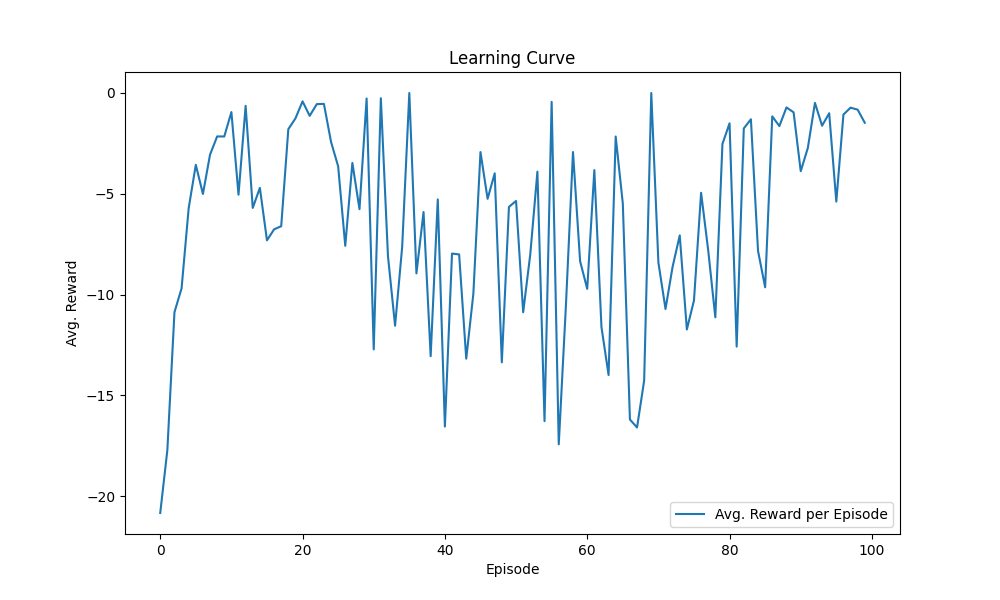
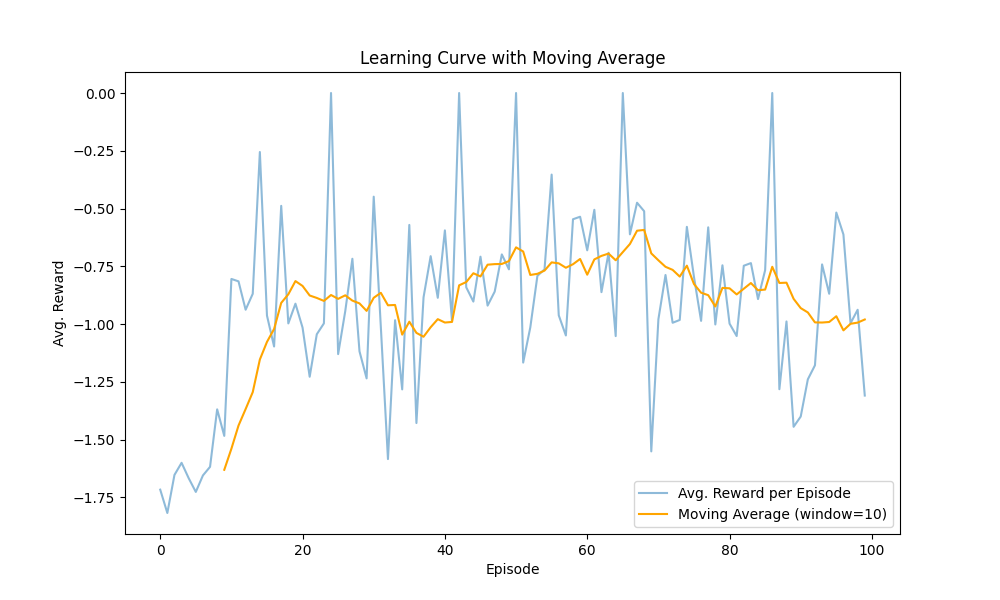
Updates from Overleaf

diff --git a/report/report.tex b/report/report.tex
@@ -8,184 +8,146 @@
 \usepackage{subcaption}
 \geometry{a4paper, margin=1in}
 
-\title{Kinodynamic RRT with PID Control for Obstacle Avoidance in a MuJoCo Environment}
-\author{Mark Doughten, Vijayendra Sai Chennareddy, Shubham Patil}
+\title{Actor-Critic Reinforcement Learning in MuJoCo}
+\author{
+    Mark Doughten [MD1875] \\
+    Vijayendra Sai Chennareddy [VC545] \\
+    Shubham Patil [SP2484]
+}
 \date{\today}
 \begin{document}
 \maketitle
 
 \section{Introduction}
-In robotics, autonomous path planning and control are crucial aspects of robot navigation, particularly in environments with obstacles. The objective of this project is to implement a hybrid approach that combines kinodynamic rapidly-exploring random Tree (RRT) for path planning and proportional-integral-derivative (PID) controllers for executing the motion along the planned path. This work is demonstrated using a ball in a MuJoCo simulation environment, where the ball navigates through an environment containing walls and boundaries. The goal is to move the ball from a starting position to a goal position while avoiding obstacles using the kinodynamic RRT algorithm and accurately controlling the movement with PID.
+This report outlines the implementation of an Actor-Critic reinforcement learning (RL) framework a MuJoCo simulation environment. The objective is training a robot on the environment and understanding how it can reach the goal. This paper describes how this is achieved using neural networks for policy learning and value estimation with a reward function designed to encourage goal seeking. The transition function outlines the expected behavior. The transition function is defined as follows:
 
-\subsection{Objectives}
-The main challenge is efficiently generating a collision-free path from a start point to a goal point in a cluttered environment and ensuring the ball follows this path with minimal deviation. We undertook the following steps to achieve this objective:
-\begin{itemize}
-    \item Configuring MuJoCo and exploring various models, including Newton’s cradle with no gravity.
-    \item Developing basic pathfinding in a 3D environment using Dijkstra’s algorithm for initial path selection and fixed velocity controls.
-    \item Enhancing pathfinding with kinodynamic RRT, incorporating a safety margin around obstacles.
-    \item Replacing basic controls with a PID controller to follow the planned path.
-    \item Simulating and visualizing the robot’s movement within the MuJoCo physics engine.
-\end{itemize}
+\begin{align*}
+\dot{x}_{t+1} &= \dot{x}_t + (f_{x,t} - \rho_{x,t}) \Delta t, \\
+\dot{y}_{t+1} &= \dot{y}_t + (f_{y,t} - \rho_{y,t}) \Delta t, \\
+x_{t+1} &= x_t + \dot{x}_t \Delta t, \\
+y_{t+1} &= y_t + \dot{y}_t \Delta t.
+\end{align*}
+
+where \( \rho_{x,t} \) and \( \rho_{y,t} \) are small independent noises, sampled from \( \mathcal{N}(0, 0.1) \) at each time step \( t \), and \( \Delta t \) is set to 0.1 seconds. We assume here that the robot has a mass of 1~kg. You can interpret the force noises as air resistance or random friction (although air resistance should scale up as a function of velocity).
 
 \section{Environment}
-The environment consists of a 2D plane with predefined walls and boundaries. The simulation is conducted using the MuJoCo physics engine, which allows for the creation and control of dynamic models. For this project, a ball is moved through the environment containing a set of obstacles to reach the goal. The model used is defined in the \texttt{ball\_square.xml} file, and the walls are represented as both external boundaries and internal obstacles.
+The environment is a 3D course simulated in MuJoCo, featuring obstacles and boundaries. The robot is subjected to forces in the \(x\)- and \(y\)-directions. The actor applies a force on the robot based on the current policy. The reward function incentives reaching the goal and penalizes wasting time. The initial state is obtained by sampling the
+position of the robot uniformly in the workspace of the robot, and setting
+its initial velocity to 0. An example of how the points were selected during a batch training session, showing the initial starting positions are random. 
 
-\subsection{Map}
+\begin{figure}[H]
+    \centering
+    \includegraphics[width=0.8\textwidth]{report/images/environment.png}
+    \caption{Spawn locations during the training process.}
+    \label{fig:trajectory}
+\end{figure}
+
+The goal position is fixed on (0.8, 0.0) and the epsilon is 0.1. Overall, this was a challenging configuration since the robot needs to learn how to travel above or below the obstacle in the middle. It makes a simple reward function like distance to the goal not beneficial since the robot will find an optimal point on the side closest. 
+
+\section{Actor-Critic Model}
+
+The framework for the Actor-Critic model is based on Hado van Hasselt's lecture. 
+
+\begin{figure}[H]
+    \centering
+    \includegraphics[width=0.8\textwidth]{report/images/slide40.PNG}
+    \caption{Pseudocode}
+    \label{fig:slide40}
+\end{figure}
+
+The Actor-Critic architecture comprises two neural networks:
 \begin{itemize}
-    \item \textbf{Dimensions:} The 2D environment spans from \(x = -0.5\) to \(x = 1.5\) and \(y = -0.4\) to \(y = 0.4\).
-    \item \textbf{Obstacles:} A rectangular obstacle is placed in the middle of the environment between coordinates (0.5, -0.15) and (0.6, 0.15), acting as a wall.
-    \item \textbf{Goal Area:} The target area for the robot is set between coordinates (0.9, -0.3) and (1.1, 0.3).
-    \item \textbf{Boundaries:} The outer walls of the environment prevent the robot from moving outside the area.
+    \item \textbf{Actor Network:} Outputs an action in the form of a mean (\(\mu\)) and standard deviation (\(\sigma\)) for each step in the episode.
+    \item \textbf{Critic Network:} Estimates the value function and provides feedback to improve the actor's policy.
 \end{itemize}
 
-This setup ensures the presence of both static and dynamic constraints, making path planning non-trivial and control challenging.
-
-\section{Path Planning}
-
-\subsection{Algorithm Overview}
-RRT\cite{planning_dynamics} are widely used for motion planning in high-dimensional spaces. In this project, we implement a kinodynamic variant of RRT. Unlike standard RRT, the kinodynamic RRT accounts for the robot’s dynamics while generating the tree, ensuring that the planned path can be followed realistically by the robot. This approach helps avoid sharp or unrealistic turns that the robot may not be able to follow.
-
-The algorithm grows a tree from the start position by:
-\begin{enumerate}
-    \item Sampling a random point in the environment.
-    \item Identifying the nearest node in the tree.
-    \item Applying a control input to move the robot towards the sampled point, simulating its dynamics.
-    \item Checking the resulting position for collisions.
-    \item Adding the new position to the tree if no collision occurs.
-\end{enumerate}
-
-This process repeats until the robot reaches the goal area or a maximum number of iterations is reached. The function \texttt{kinodynamic\_rrt} implements this process, while \texttt{simulate} handles the forward simulation of the robot’s dynamics.
-    
-\subsection{Purpose of \texttt{simulate()} in \texttt{kinodynamic\_rrt}}
-In traditional RRT, paths are generated based solely on geometric feasibility. However, for real systems with dynamic constraints, \texttt{simulate()} serves several critical functions:
-\begin{itemize}
-    \item \textbf{Ensures Dynamic Feasibility:} Calculates movement towards each sampled point, adjusting with PID control.
-    \item \textbf{Incremental Adjustment:} Makes small, corrective adjustments to follow a feasible path.
-    \item \textbf{Collision-Free Verification:} Confirms both geometric and dynamic feasibility.
-    \item \textbf{Realistic Path Execution:} Validates that each RRT segment can be executed under real-world constraints.
-\end{itemize}
-    
-\subsection{Collision Avoidance}
-Collision detection is handled by the function \texttt{is\_collision\_free}, which checks if the robot’s new position lies within any of the obstacle regions or the environment boundaries. A safety margin is applied to ensure that the robot does not approach obstacles too closely. The function \texttt{is\_collision\_free\_line} checks if a straight line between two points is free of obstacles by verifying that there are no collisions with specified walls.
-
-\subsection{Path Construction}
-Once the algorithm successfully identifies a path to the goal, the tree is traversed from the goal node back to the start node to construct the complete path. This backtracking process is handled by the function \texttt{construct\_path}. The final path is then visualized, displaying the trajectory, environmental boundaries, and any obstacles encountered along the way.
-
-When a path is established between two nodes, the function \texttt{line\_goes\_through\_goal} checks if the path intersects with the goal area by interpolating and sampling points along the path. If an intersection is detected, the endpoint is adjusted to the coordinates (0.9, y) based on the last generated point. This modification effectively minimizes the distance required to reach the goal, as evidenced by the time trial paths.
-
-\subsection{Smoothing}
-After selecting the path within the Rapidly-exploring Random Tree, post-processing occurs using the \texttt{smooth\_path} function. This function randomly selects points in the graph to determine if they can be directly connected while eliminating intermediate points. As a result, the path is reduced to a series of critical waypoints, simplifying navigation. This reduction allows the control implementation to restart upon reaching each subsequent point, providing the controller with adequate time to complete the feedback loop before moving on to the next waypoint.
-
-\section{Navigation}
-
-\subsection{Controller}
-PID controllers are commonly used in control systems to achieve stable and accurate control. In this project, two PID controllers are implemented: one for controlling the movement of the ball in the \(x\)-direction and the other for the \(y\)-direction. Each controller computes the control input based on the error between the current and target positions, aiming to reduce this error over time.
-
-The function \texttt{move\_ball\_to\_position\_with\_pid} implements the control loop, where the ball’s current position is compared to the target position from the planned path. The PID controllers compute the necessary force to move the ball toward the target, and the control inputs are applied in each iteration of the simulation.
+\subsection{Actor Network}
+The actor network processes the robot's state (\(x, y, v_x, v_y\)) through three fully connected layers. The output represents the mean and standard deviation for a Gaussian policy, \(a\) is the action vector consisting of control forces in the \(x\)- and \(y\)-directions.
 
 \begin{equation}
-u(t) = K_p e(t) + K_i \int_0^t e(\tau) \, d\tau + K_d \frac{d}{dt} e(t)
+\pi(a|s) \sim \mathcal{N}(\mu(s), \sigma(s)),
 \end{equation}
 
-where:
-\begin{itemize}
-    \item \( K_p \): Proportional gain,
-    \item \( K_i \): Integral gain,
-    \item \( K_d \): Derivative gain,
-    \item \( e(t) = r(t) - y(t) \): Error at time \( t \).
-\end{itemize}
-
-\subsection{Parameters}
-The gains for the PID controllers were manually tuned to achieve smooth movement without overshooting. This tuning required observing the patterns in the model simulation and adjusting accordingly; no penalty for previous errors was applied. The proportional (\texttt{kp}), integral (\texttt{ki}), and derivative (\texttt{kd}) gains were set as follows:
-\begin{itemize}
-    \item \textbf{Proportional Gain (\texttt{kp}):} 0.58 — provides a basic correction based on the current error.
-    \item \textbf{Integral Gain (\texttt{ki}):} 0 — not used in this implementation to avoid cumulative errors from drift.
-    \item \textbf{Derivative Gain (\texttt{kd}):} 0.5 — helps to smooth the response by anticipating future errors based on the rate of change.
-\end{itemize}
-
-The higher proportional gain results in more aggressive error correction, which was necessary to achieve trials below a certain time threshold. Once the new point is set, the ball minimizes the error by updating its velocity. The \(x\)-direction and \(y\)-direction have the same controller configuration for symmetry. The same controllers are used to simulate the motion planning between two nodes in the Rapidly-exploring Random Tree.
-
-\subsection{Pathfinder}
-The PID controllers move the ball sequentially through each point in the planned path. Movement is clamped to prevent overshooting, and the simulation continues until the ball reaches the goal position with minimal error (set to 0.075 in this case). 
-
-\begin{figure}[h!]
+\begin{figure}[H]
     \centering
-    \includegraphics[width=0.5\textwidth]{./images/deviation.png}
-    \caption{Path Deviation}
-    \label{fig:path_deviation}
+    \includegraphics[width=0.8\textwidth]{report/images/nn.png}
+    \caption{Actor Network Architecture}
+    \label{fig:actor_network}
 \end{figure}
- 
-The deviation is calculated using the \texttt{calculate\_deviation} function. This feedback is important for determining how far the ball is from the trajectory, what adjustments to the controllers are necessary, and ensuring that the ball will not collide with obstacles between two points.
 
-\subsection{Adjustments}
+\subsection{Critic Network}
+The critic network uses the same input as the actor and a single scalar value that represents the estimated state value \(V(s)\). This value guides the actor policy by estimating the advantage of actions. The two networks work together to achieve the optimal actions based on the policy gradient.
 
-Several challenges arise during the control process, including handling sharp turns in the path and adjusting the control parameters to prevent oscillations. The derivative gain plays a crucial role in damping the response and ensuring smooth transitions between points. The best method for finding the right parameter was using a process that required increased the $K_p$ value until oscillation was guaranteed. The Ziegler–Nichols tuning method \cite{{ziegler-nichols-wiki}} is a heuristic approach to tuning a PID controller, developed by John G. Ziegler and Nathaniel B. Nichols. It is used to determine the proportional, integral, and derivative gains \( K_p \), \( K_i \), and \( K_d \) for a PID controller.
+\subsection{Loss Functions}
+\begin{itemize}
+    \item \textbf{Actor Loss:} Encourages actions that maximize expected rewards:
+    \[
+    L_\text{actor} = -\mathbb{E}[\log\pi(a|s) \cdot \text{Advantage}(s, a)].
+    \]
+    \item \textbf{Critic Loss:} Minimizes the temporal difference (TD) error:
+    \[
+    L_\text{critic} = \frac{1}{2} (\text{TD Target} - V(s))^2.
+    \]
+\end{itemize}
 
-\begin{table}[h!]
+\begin{figure}[H]
     \centering
-    \begin{tabular}{|c|c|c|c|}
-        \hline
-        \textbf{Controller Type} & \( K_p \) & \( K_i \) & \( K_d \) \\
-        \hline
-        P & \( 0.5 K_u \) & - & - \\
-        PI & \( 0.45 K_u \) & \( \frac{K_p}{0.83 T_u} \) & - \\
-        PD & \( 0.8 K_u \) & - & \( K_p \cdot 0.125 T_u \) \\
-        PID & \( 0.6 K_u \) & \( \frac{K_p}{0.5 T_u} \) & \( K_p \cdot 0.125 T_u \) \\
-        \hline
-    \end{tabular}
-    \caption{Ziegler–Nichols Tuning Parameters}
-    \label{tab:zn_parameters}
-\end{table}
+    \includegraphics[width=0.8\textwidth]{report/images/loss.png}
+    \caption{Recorded loss during a training session.}
+    \label{fig:trajectory}
+\end{figure}
 
-\subsection{Path Visualization and Obstacle Mapping}
-The function \texttt{visualize\_final\_tree} generates a graphical representation of the kinodynamic RRT, illustrating the exploration process and highlighting the path to the goal. The easiest approach to path visualization was created a top down $2D$ view for visualizing the path on the map. This perceptive aided the team in debugging how the path was getting created, the optimal path, and dangers in specific areas. As an example, the $2d$ view showed that the ball was getting too close to the front of the obstacle. Based on the limited controls and the time constraints, the ball would get too close and not know how to get out of the situation. The new information allowed use to implement a buffer around the object preventing the path from entering that area. 
+\section{Training}
 
-\subsection{Dynamic Speed Adjustment for Smooth Deceleration}
-The function \texttt{update\_speed} adjusts the robot's speed based on its distance from the goal, allowing for controlled deceleration to avoid overshooting.
+\subsection{Reward Function}
+The reward function balances three objectives:
+\begin{itemize}
+    \item \textbf{Distance to Goal:} Encourages progress toward the goal with a linear penalty proportional to the distance.
+    \item \textbf{Time Penalty:} Incentives finding the goal quicker during each episode. 
+\end{itemize}
+
+\subsection{Method}
+The training process allows the user to set the duration and the number of steps. In our case, we typically set the number of steps to 1800 and episodes vary based on the session. While we can train in batch, a user can view a training session in between the batches to see the progression. Likewise, we have the option to run from a fixed point and 
+The training loop iteratively performs the following steps:
+\begin{enumerate}
+    \item Initialize the state \(s_0\).
+    \item Use the actor network to sample an action \(a_t\).
+    \item Apply \(a_t\) in the environment and record the next state \(s_{t+1}\) and reward \(r_t\).
+    \item Compute the temporal difference (TD):
+    \[\text{TD} = r_t + \gamma V(s_{t+1}),\]
+    where $\gamma=0.99$ is the discount factor.
+    \item Backpropagation to the actor and critic networks using their respective loss functions.
+\end{enumerate}
 
 \section{Results}
 
-There were three main objectives in this experiment. The first one was getting the environment running, the second generating a path using kinodynamic RRT, and the third was getting the ball to the goal using controllers. The team demonstrated success on all three objectives. 
+\subsection{Learning Curve}
+The model achieves consistent improvements in reward over episodes. Figure \ref{fig:learning_curve} illustrates the average reward per episode during training.
 
-\subsection{Environment}
-
-The model creation and execution worked well in the MuJoCo environment and allowed the team to witness the controller behavior prior to using in the kinodynamic RRT search. The simulated search for the path should reflect accuracy how the ball would actually move in the space to the way points and maintain control. It prevented the team was implement controller that behave erratically and would not lead to generating a complete path.
-
-\subsection{Visualize Trees}
-
-At the end of the report, a complete tree generated using kinodynamic RRT used as a path to the goal. The trees show the effectiveness of using kinodynamic RRT and the success rate for finding the goal despite the different seed. In trails 2, 4, and 5, the tree is not expansive showing the quickness for finding a node in the goal. An area worth exploring in the future is implement a suite of controllers and randomly selecting them for a better representation. In this experiment, the team is using one controller for all the path finding. 
-
-\subsection{Time Trials}
-
-The \texttt{run\_planning\_trial} function runs multiple trials and evaluates the success rate of the kinodynamic RRT in reaching the goal area in the a defined time limit. The team was successful in getting a path each trail and under the time contraints with a $100\%$ accuracy. The quickest shows the effectiveness for using a PID controller for path finding and simulating the ball movements to better represent the actual movement. Similar to the drone movement in the University of Utah technical report \cite{uucs_12_002}, kinodynamic RRT is a reasonable approach for solving this problem. 
-
-\begin{figure}[h!]
+\begin{figure}[H]
     \centering
-    \includegraphics[width=0.5\textwidth]{./images/success.png}
-    \caption{Success Rates}
-    \label{fig:Succees Rates}
+    \includegraphics[width=0.8\textwidth]{report/images/learning.png}
+    \caption{Average reward per episode during training.}
+    \label{fig:learning_curve}
 \end{figure}
 
 \section{Conclusion}
-This project successfully integrated kinodynamic RRT for path planning and PID control for path execution in a simulated 3D environment. By leveraging these techniques, ball can navigate a complex environment with obstacles and boundaries while accurately following the planned path to the goal.
+The Actor-Critic reinforcement learning framework demonstrates effective navigation to the goal in a 3D simulated environment. Future work could involve extending this approach for submersibles and obstacle avoidance using sensors.
 
 \begin{thebibliography}{}
 \raggedright
 
-\bibitem{mobile_robotics}
-Burgard, Wolfram, et al. Introduction to Mobile Robotics. Slides by Kai Arras, last updated July 2011, with material from S. LaValle, J.C. Latombe, H. Choset, and W. Burgard. \href{http://ais.informatik.uni-freiburg.de/news/index_en.php}{http://ais.informatik.uni-freiburg.de/news/index\_en.php}
+\bibitem{vanHasselt} 
+van Hasselt, H. Lecture 9: Policy Gradients and Actor Critics; UCL, 2021. 
 
-\bibitem{planning_dynamics}
-Planning with Dynamics and Uncertainty. \href{https://motion.cs.illinois.edu/RoboticSystems/PlanningWithDynamicsAndUncertainty.html}
-{https://motion.cs.illinois.edu/RoboticSystems/PlanningWithDynamicsAndUncertainty.html}
+\bibitem{jaramillo} 
+Jaramillo-Martínez, R.; Chavero-Navarrete, E.; Ibarra-Pérez, T. Reinforcement-Learning-Based Path Planning: A Reward Function Strategy. \textit{Applied Sciences} \text{2024}, \text{14} (17), 7654. \url{https://doi.org/10.3390/app14177654}.
 
-\bibitem{uucs_12_002}
-University of Utah, School of Computing. Technical Report UUCS-12-002, 2012. \href{https://www-old.cs.utah.edu/docs/techreports/2012/pdf/UUCS-12-002.pdf}{https://www-old.cs.utah.edu/docs/techreports/2012/pdf/UUCS-12-002.pdf}
+\bibitem{larsen} 
+Larsen, T. N.; Teigen, H. Ø.; Laache, T.; Varagnolo, D.; Rasheed, A. Comparing Deep Reinforcement Learning Algorithms’ Ability to Safely Navigate Challenging Waters. \textit{Frontiers in Robotics and AI} \text{2021}, \text{8}, 738113. \url{https://doi.org/10.3389/frobt.2021.738113}.
 
-\bibitem{ziegler-nichols-wiki}
-Wikipedia contributors, "Ziegler–Nichols method," \textit{Wikipedia},
-\url{https://en.wikipedia.org/wiki/Ziegler%E2%80%93Nichols_method}, accessed 26-October-2024.
+\bibitem{manuelli} 
+Manuelli, L.; Florence, P. Reinforcement Learning for Autonomous Driving Obstacle Avoidance using LIDAR. \textit{Massachusetts Institute of Technology.} Available online: \url{https://www.peteflorence.com/ReinforcementLearningAutonomousDriving.pdf}.
 
 \end{thebibliography}
-
 \end{document}
